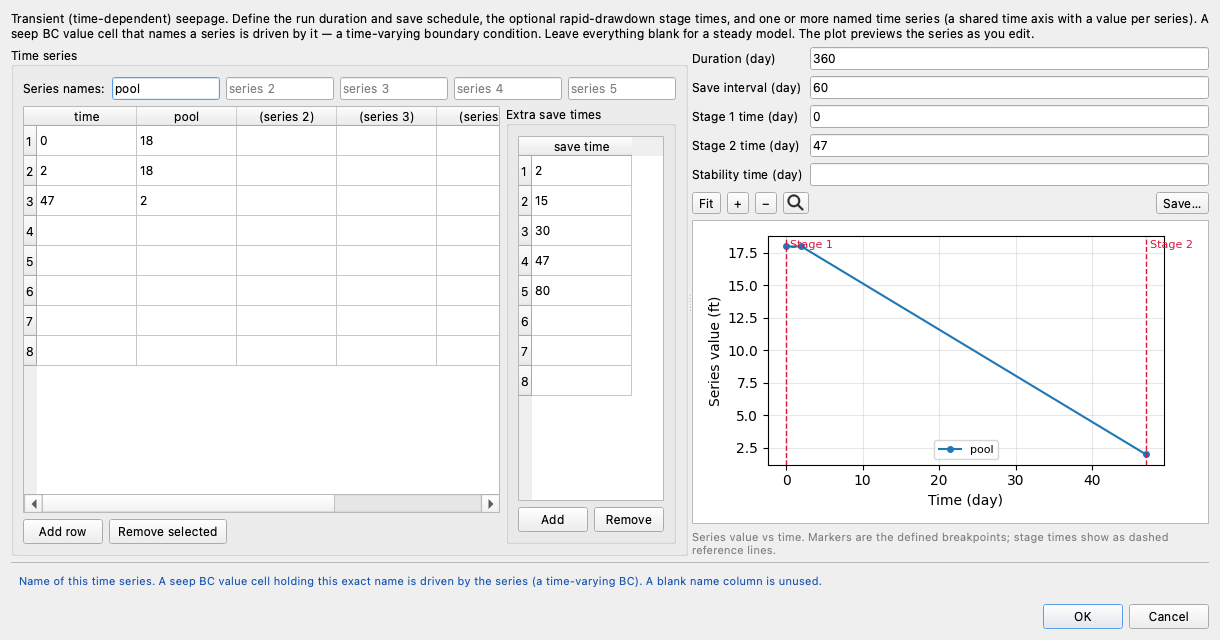
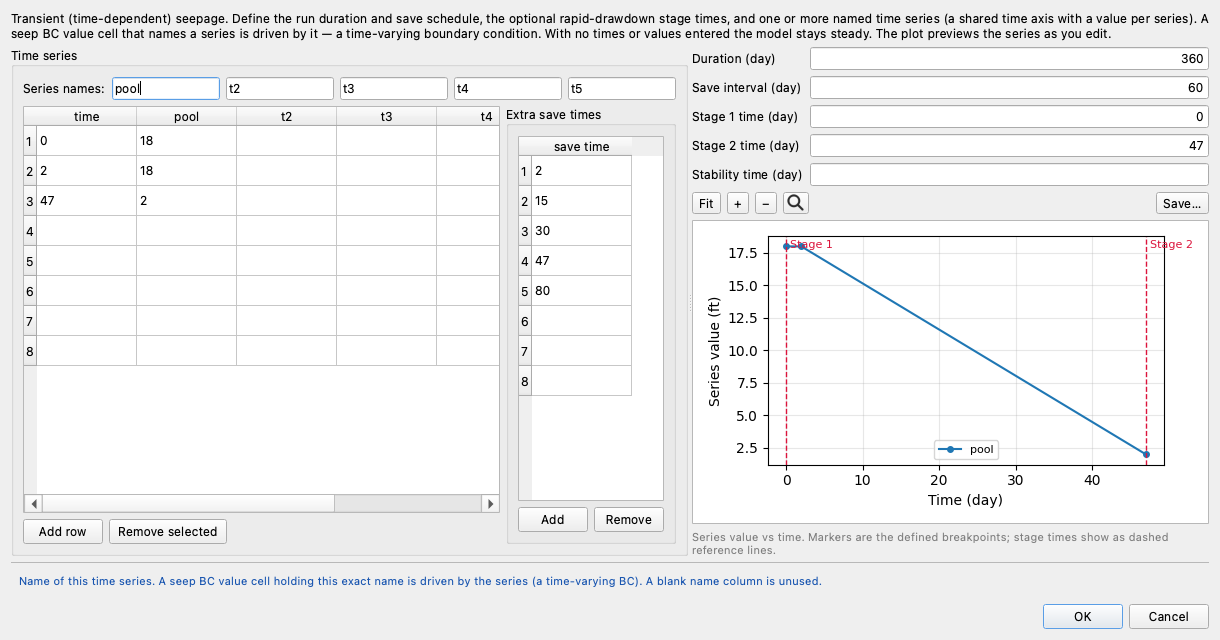
ui(studio): transient series names default to the template's t1-t5
The Transient dialog's empty name slots now carry the input template's
tseep header defaults (t1..t5) as real pre-filled names instead of
'series N' placeholder hints, so typing values under a default column
works the same in Studio as in the template. A loaded series that
collides with a default leaves that slot blank. Untouched dialogs still
round-trip to steady (a series registers only with values). Docs prose
and the dialog screenshot follow.

Claude-Session: https://claude.ai/code/session_01XjjT2aBxw8gY7EFdpoUcpj

diff --git a/studio/editors.py b/studio/editors.py
@@ -6585,8 +6585,8 @@ class TransientDialog(QDialog):
             "schedule, the optional rapid-drawdown stage times, and one or more named "
             "time series (a shared time axis with a value per series). A seep BC value "
             "cell that names a series is driven by it — a time-varying boundary "
-            "condition. Leave everything blank for a steady model. The plot previews "
-            "the series as you edit."))
+            "condition. With no times or values entered the model stays steady. The "
+            "plot previews the series as you edit."))
 
         # --- run controls (built here; placed at the TOP of the right column) ---
         controls_widget = QWidget()
@@ -6625,9 +6625,17 @@ class TransientDialog(QDialog):
         self._name_edits = []
         existing = list((tseep.get("series") or {}).keys())
         for i in range(_TSEEP_N_SERIES):
-            e = QLineEdit(existing[i] if i < len(existing) else "")
+            if i < len(existing):
+                name = existing[i]
+            else:
+                # Empty slots carry the input template's default header names
+                # (tseep sheet row 2: t1..t5); a default that collides with a
+                # loaded series name stays blank instead.
+                default = f"t{i + 1}"
+                name = default if default not in existing else ""
+            e = QLineEdit(name)
             e.setToolTip(TSEEP_HELP["series_name"])
-            e.setPlaceholderText(f"series {i + 1}")
+            e.setPlaceholderText(f"t{i + 1}")
             self._name_edits.append(e)
             names_row.addWidget(e)
         sgl.addLayout(names_row)
@@ -6731,7 +6739,7 @@ class TransientDialog(QDialog):
         labels = ["time"]
         for i, e in enumerate(self._name_edits):
             nm = e.text().strip()
-            labels.append(nm if nm else f"(series {i + 1})")
+            labels.append(nm if nm else f"(t{i + 1})")
         self._series_table.setHorizontalHeaderLabels(labels)
         h0 = self._series_table.horizontalHeaderItem(0)
         if h0 is not None:
@@ -6823,7 +6831,7 @@ class TransientDialog(QDialog):
         if any_series:
             ax.legend(fontsize=8, loc="best")
         else:
-            ax.text(0.5, 0.5, "Name a series and enter values to plot it",
+            ax.text(0.5, 0.5, "Enter time/value rows under a named series to plot it",
                     transform=ax.transAxes, ha="center", va="center", color="gray")
 
     # --- result --------------------------------------------------------

diff --git a/docs/studio/editing.md b/docs/studio/editing.md
@@ -256,8 +256,8 @@ with the selected one highlighted, and clicking a boundary there selects it:
 
 **Transient** edits the model's transient-seepage inputs — the data that a
 [transient run](analysis.md#transient-seepage) marches through. There is no on/off
-toggle: leaving every field blank keeps the model steady (the steady-vs-transient
-*run* choice lives on the Run Seepage dialog). It gathers:
+toggle: with no times or values entered the model stays steady (the
+steady-vs-transient *run* choice lives on the Run Seepage dialog). It gathers:
 
 - the **run controls** — **Duration**, **Save interval**, the rapid-drawdown
   **Stage 1** / **Stage 2** times (set both or neither; Stage 1 earlier than Stage 2),
@@ -266,7 +266,9 @@ toggle: leaving every field blank keeps the model steady (the steady-vs-transien
   and the stability time can also be set at their point of use, in the
   [Run LEM and Run FEM dialogs](analysis.md#seepage-time) — both places write the same
   values;
-- the **time-series table** — a shared **time** axis and up to five named series. A
+- the **time-series table** — a shared **time** axis and up to five named series
+  (the names default to **t1**–**t5**, matching the input template's tseep sheet,
+  and can be renamed). A
   seep BC head/flux **value** cell that contains a series name is driven by that
   series (a time-varying boundary condition). A blank cell is no breakpoint (the
   series is linearly interpolated between its own points), and a **repeated time** is
